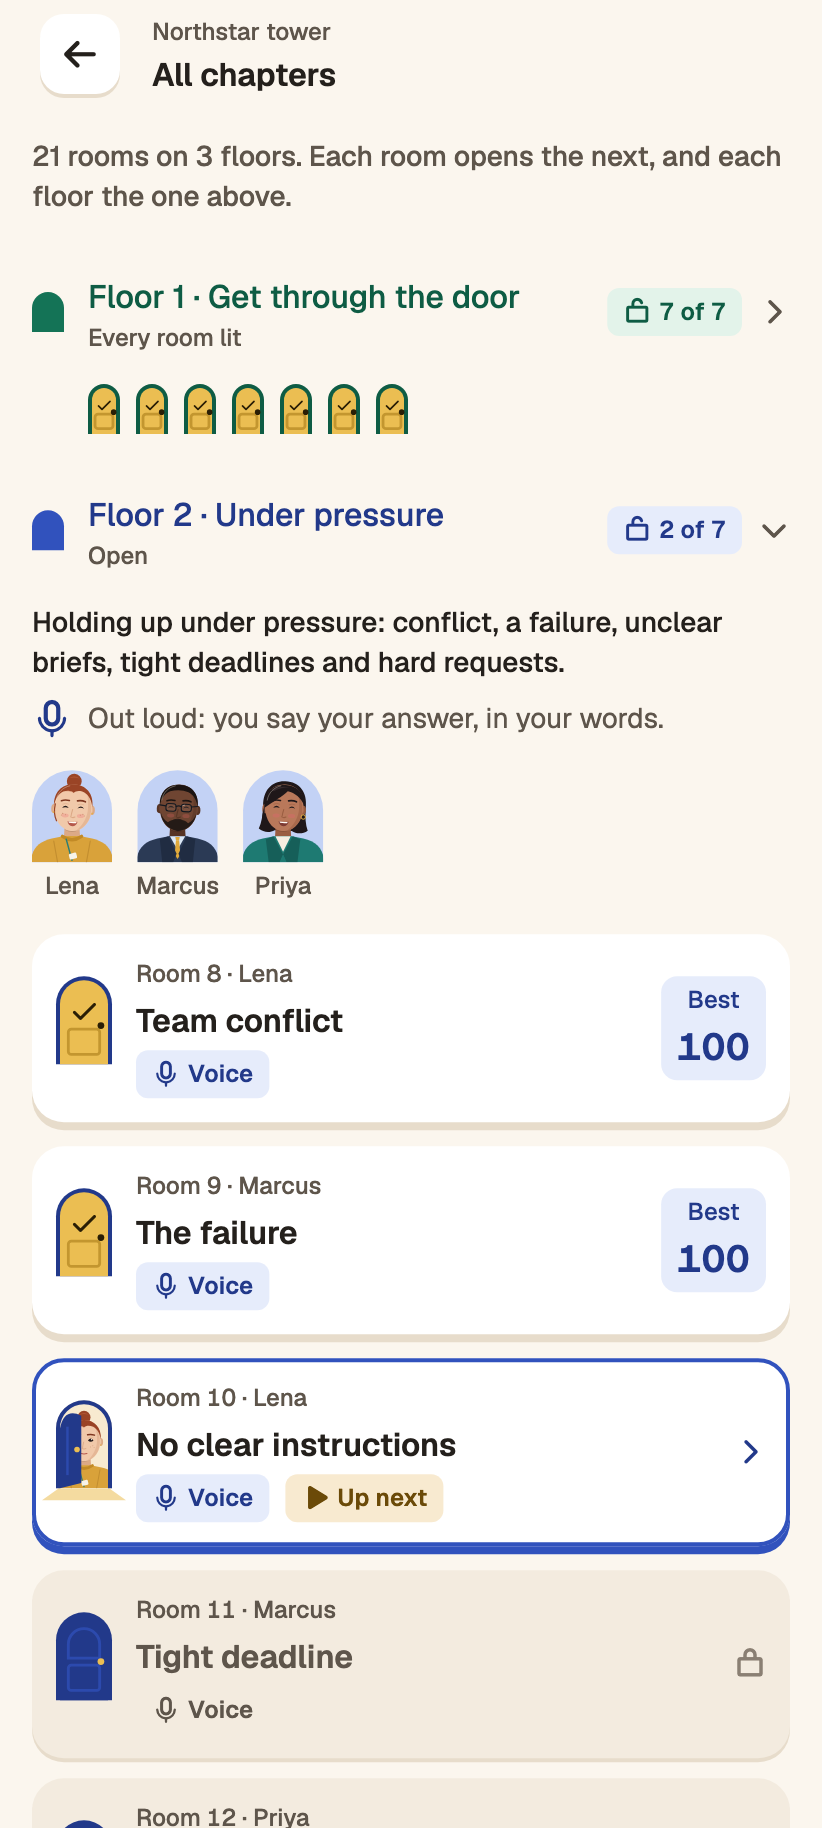
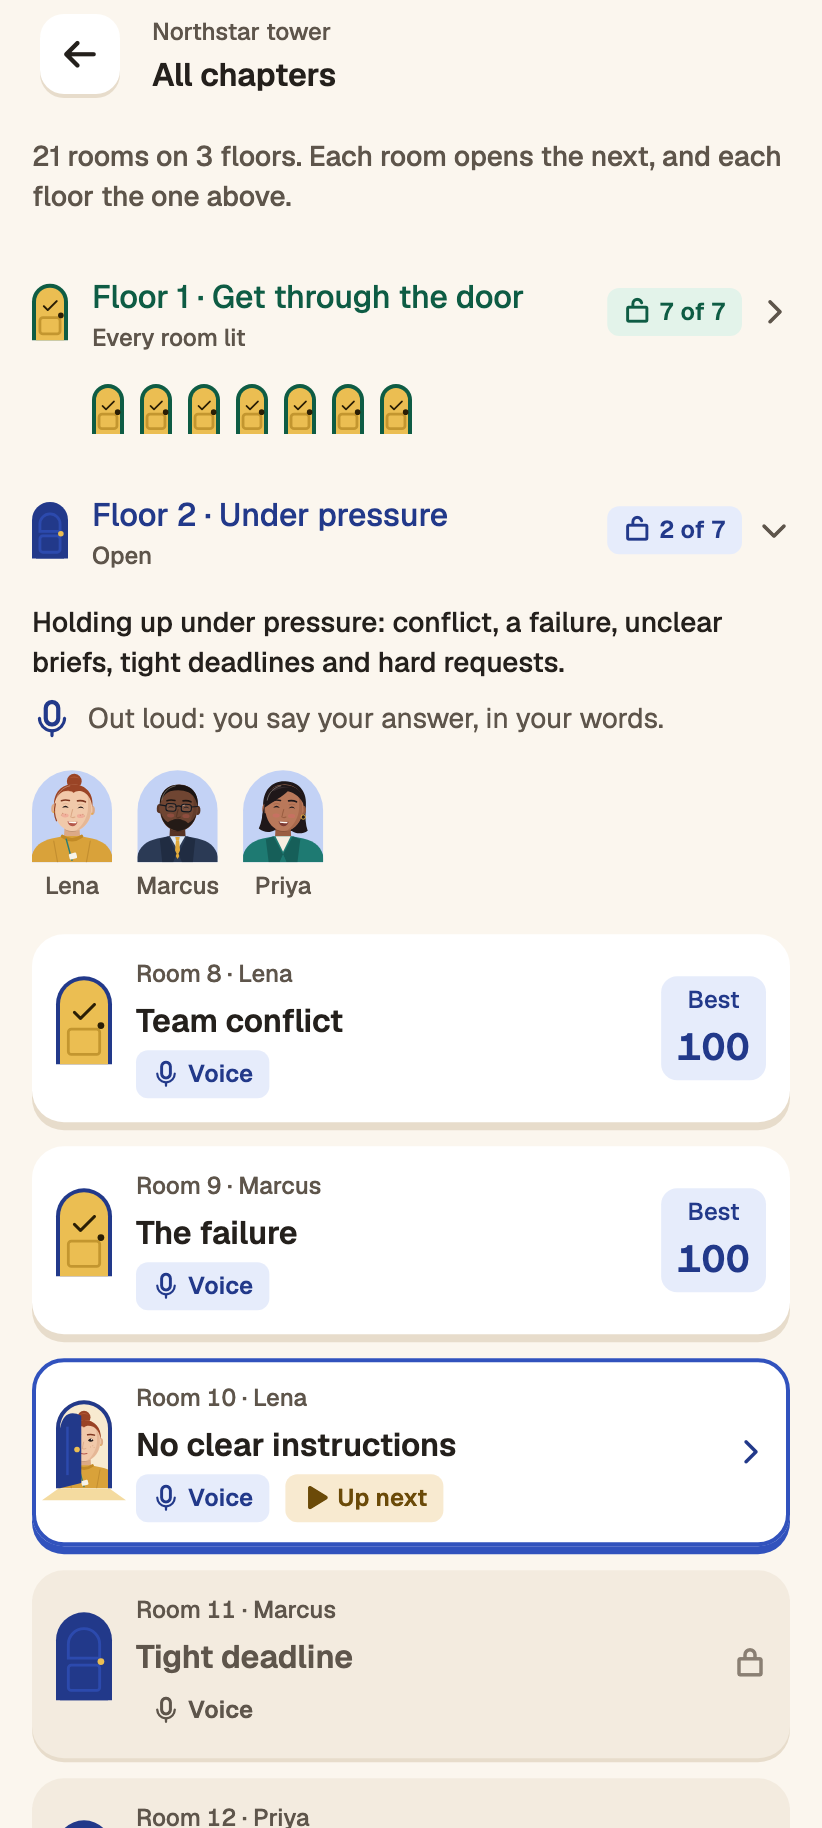
feat(mobile): show the floor's door on the chapters headers
The floor headers on All chapters drew a plain arch swatch; they now
show the tower's door at icon size in the floor's colours (TowerDoor
with DoorInk): shut on an open floor, honey once every room is lit,
pale with a lock on a floor not open yet. Stills redrawn.

Changelog: Each floor on All chapters now carries a small door in its colour.

Changed region(s): [[0.0304, 0.1559, 0.6387, 0.2806], [0.2737, 0.2806, 0.5474, 0.3118], [0.0304, 0.2806, 0.2129, 0.3118]]

diff --git a/apps/mobile/lib/features/tower/chapter_section.dart b/apps/mobile/lib/features/tower/chapter_section.dart
@@ -50,8 +50,8 @@ class ChapterSection extends StatelessWidget {
   static String headerLabel(Chapter c, {required int lit, required int of}) =>
       '${title(c)}, ${count(lit, of)} rooms lit';
 
-  static const double _swatchW = 16;
-  static const double _swatchH = 20;
+  /// The header's door: icon size.
+  static const double doorIcon = 18;
   static const double _caret = 16;
   static const double _strip = 16;
   static const double _face = 40;
@@ -92,17 +92,9 @@ class ChapterSection extends StatelessWidget {
           constraints: const BoxConstraints(minHeight: DaylightSize.hit),
           child: Row(
             children: [
-              Container(
-                width: _swatchW,
-                height: _swatchH,
-                decoration: BoxDecoration(
-                  color: open ? f.base : f.soft,
-                  borderRadius: const BorderRadius.vertical(
-                    top: Radius.circular(DaylightRadius.archTop),
-                    bottom: Radius.circular(DaylightSpace.s2),
-                  ),
-                ),
-              ),
+              // The floor's door in its colour: shut on an open floor, honey once every
+              // room is lit, pale and locked on a floor not open yet.
+              _floorDoor(f, open: open, allLit: lit == rooms.length),
               const SizedBox(width: DaylightSpace.s12),
               Expanded(
                 child: Column(
@@ -153,7 +145,7 @@ class ChapterSection extends StatelessWidget {
         width: double.infinity,
         padding: const EdgeInsets.only(
           top: DaylightSpace.s12,
-          left: _swatchW + DaylightSpace.s12,
+          left: doorIcon + DaylightSpace.s12,
         ),
         child: Wrap(
           spacing: DaylightSpace.s8,
@@ -272,6 +264,23 @@ class ChapterSection extends StatelessWidget {
       ),
     );
   }
+}
+
+/// A floor's header icon: the tower's door at icon size, in the floor's colours.
+Widget _floorDoor(FloorColours f, {required bool open, required bool allLit}) {
+  final ink = open ? DoorInk.open(f) : DoorInk.pale(f);
+  final state = !open
+      ? DoorState.locked
+      : allLit
+      ? DoorState.done
+      : DoorState.closed;
+  return TowerDoor(
+    state: state,
+    width: ChapterSection.doorIcon,
+    leaf: state == DoorState.done ? DaylightColors.honey : ink.leaf,
+    panel: state == DoorState.locked ? f.deep : ink.panel,
+    frame: ink.frame,
+  );
 }
 
 /// [room]'s door at [width], in the tower's colours for its floor: honey once played, ajar with

diff --git a/docs/status/69.md b/docs/status/69.md
@@ -25,5 +25,8 @@ Branch `feat/69-all-chapters` (worktree w34), from origin/main 2cde647.
   (`WRITE_STILLS=1`), all looked at. No dev-catalog golden (the screen is provider/router-bound;
   the stills cover it), so no Docker run needed; no golden changed.
 
+- Follow-up: the floor headers' plain arch swatch is now the tower's door at icon size
+  (`TowerDoor` + `DoorInk`, 18 wide: shut, honey once all lit, pale + lock when not open).
+
 ## Next steps
 - Full `npm run test` + build:web, session log commit, push, PR, green CI. Never merge.
